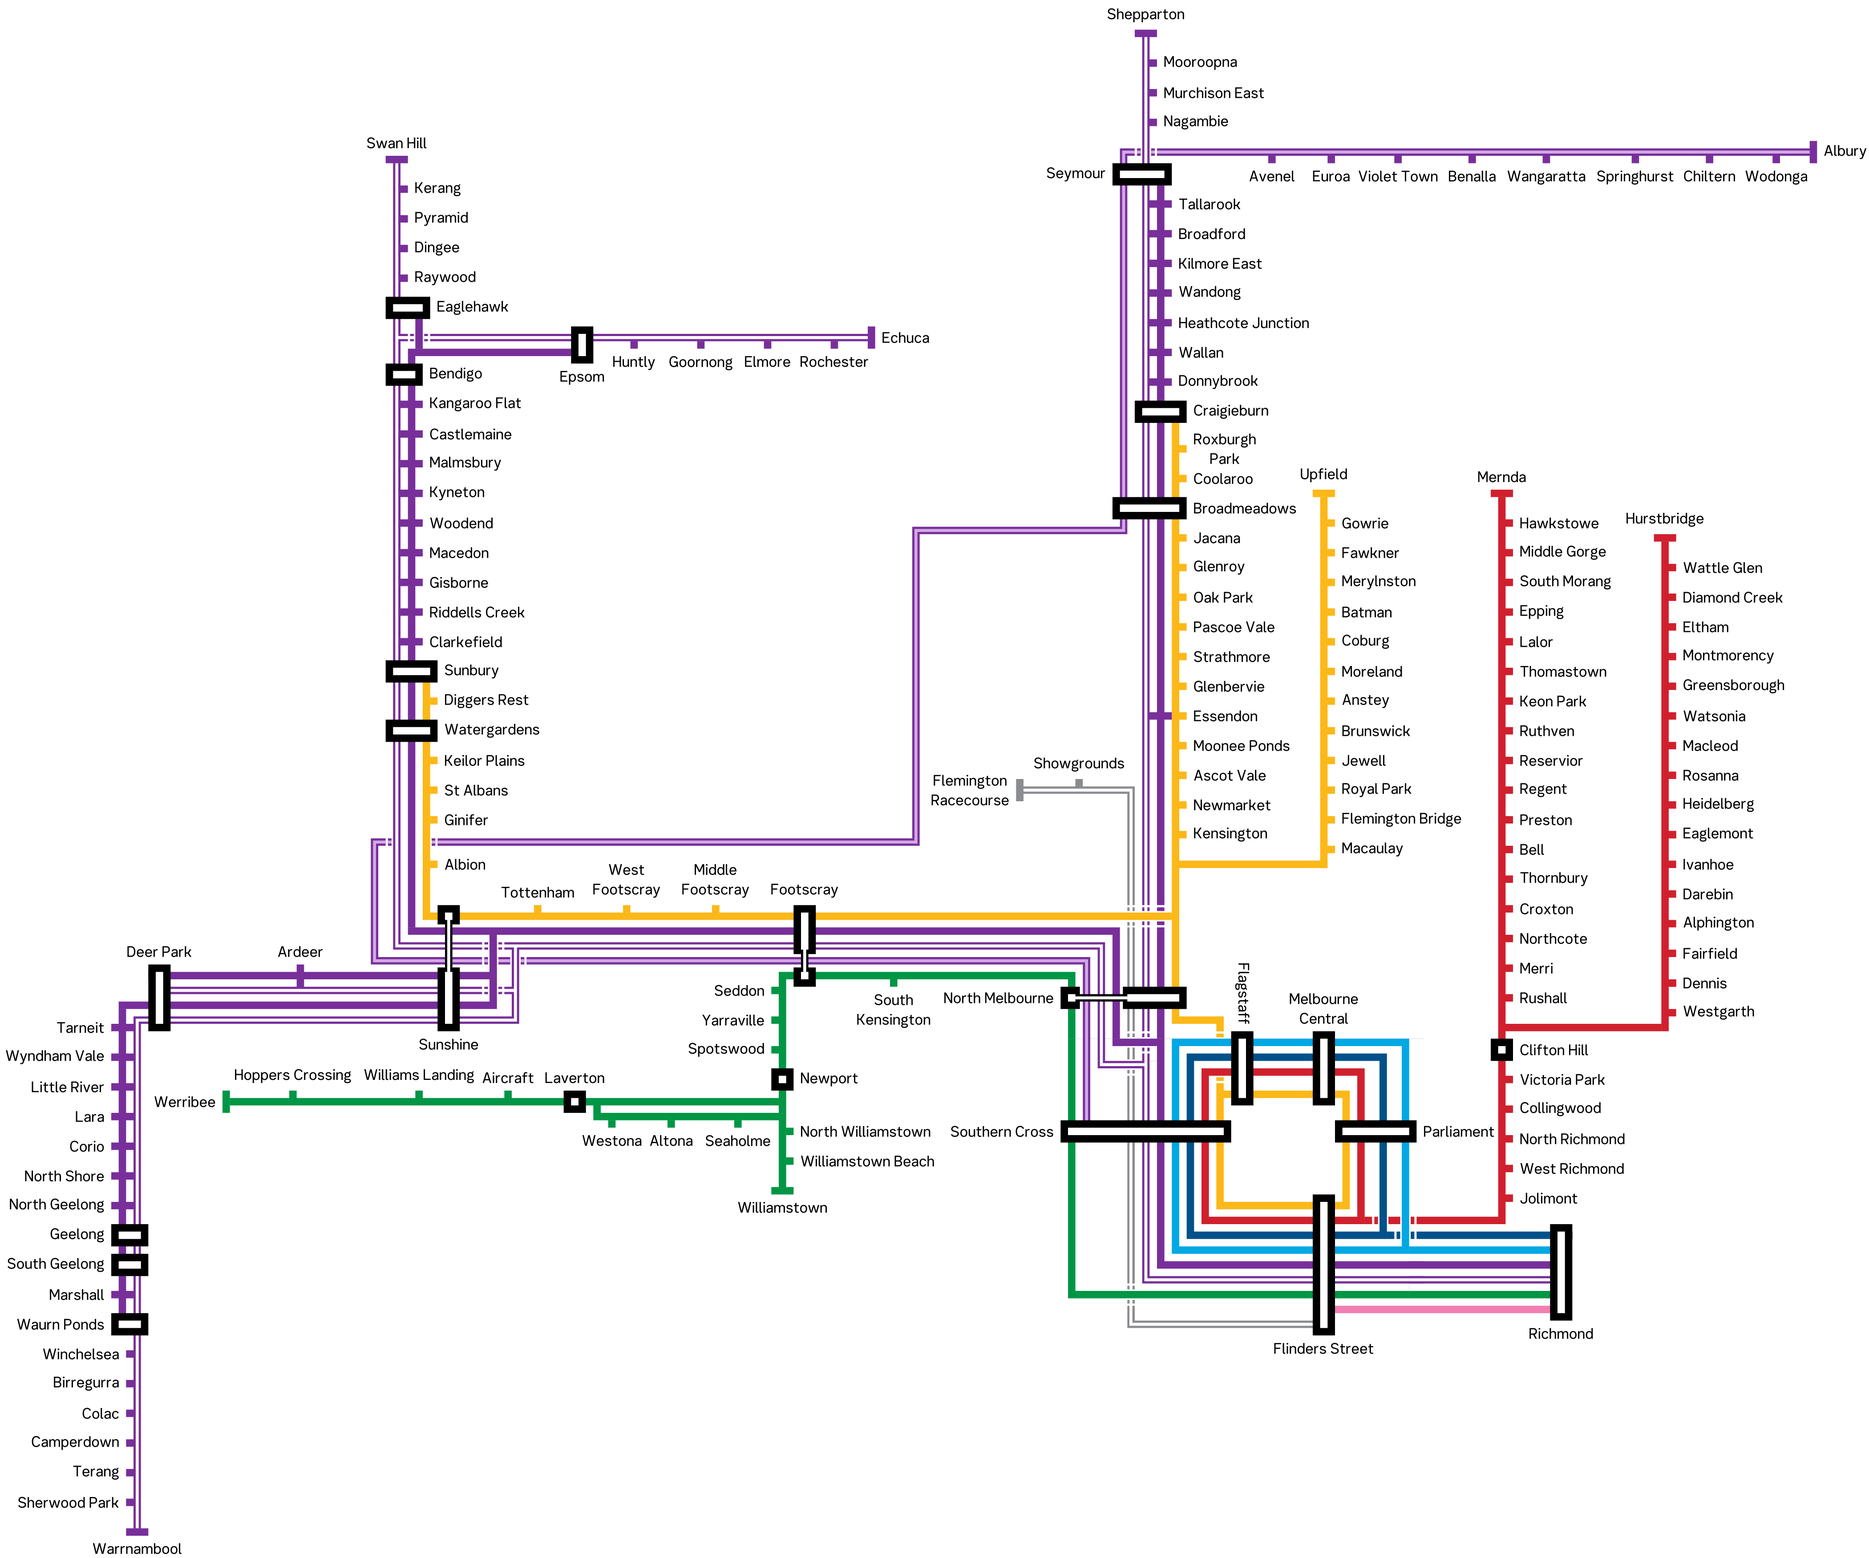
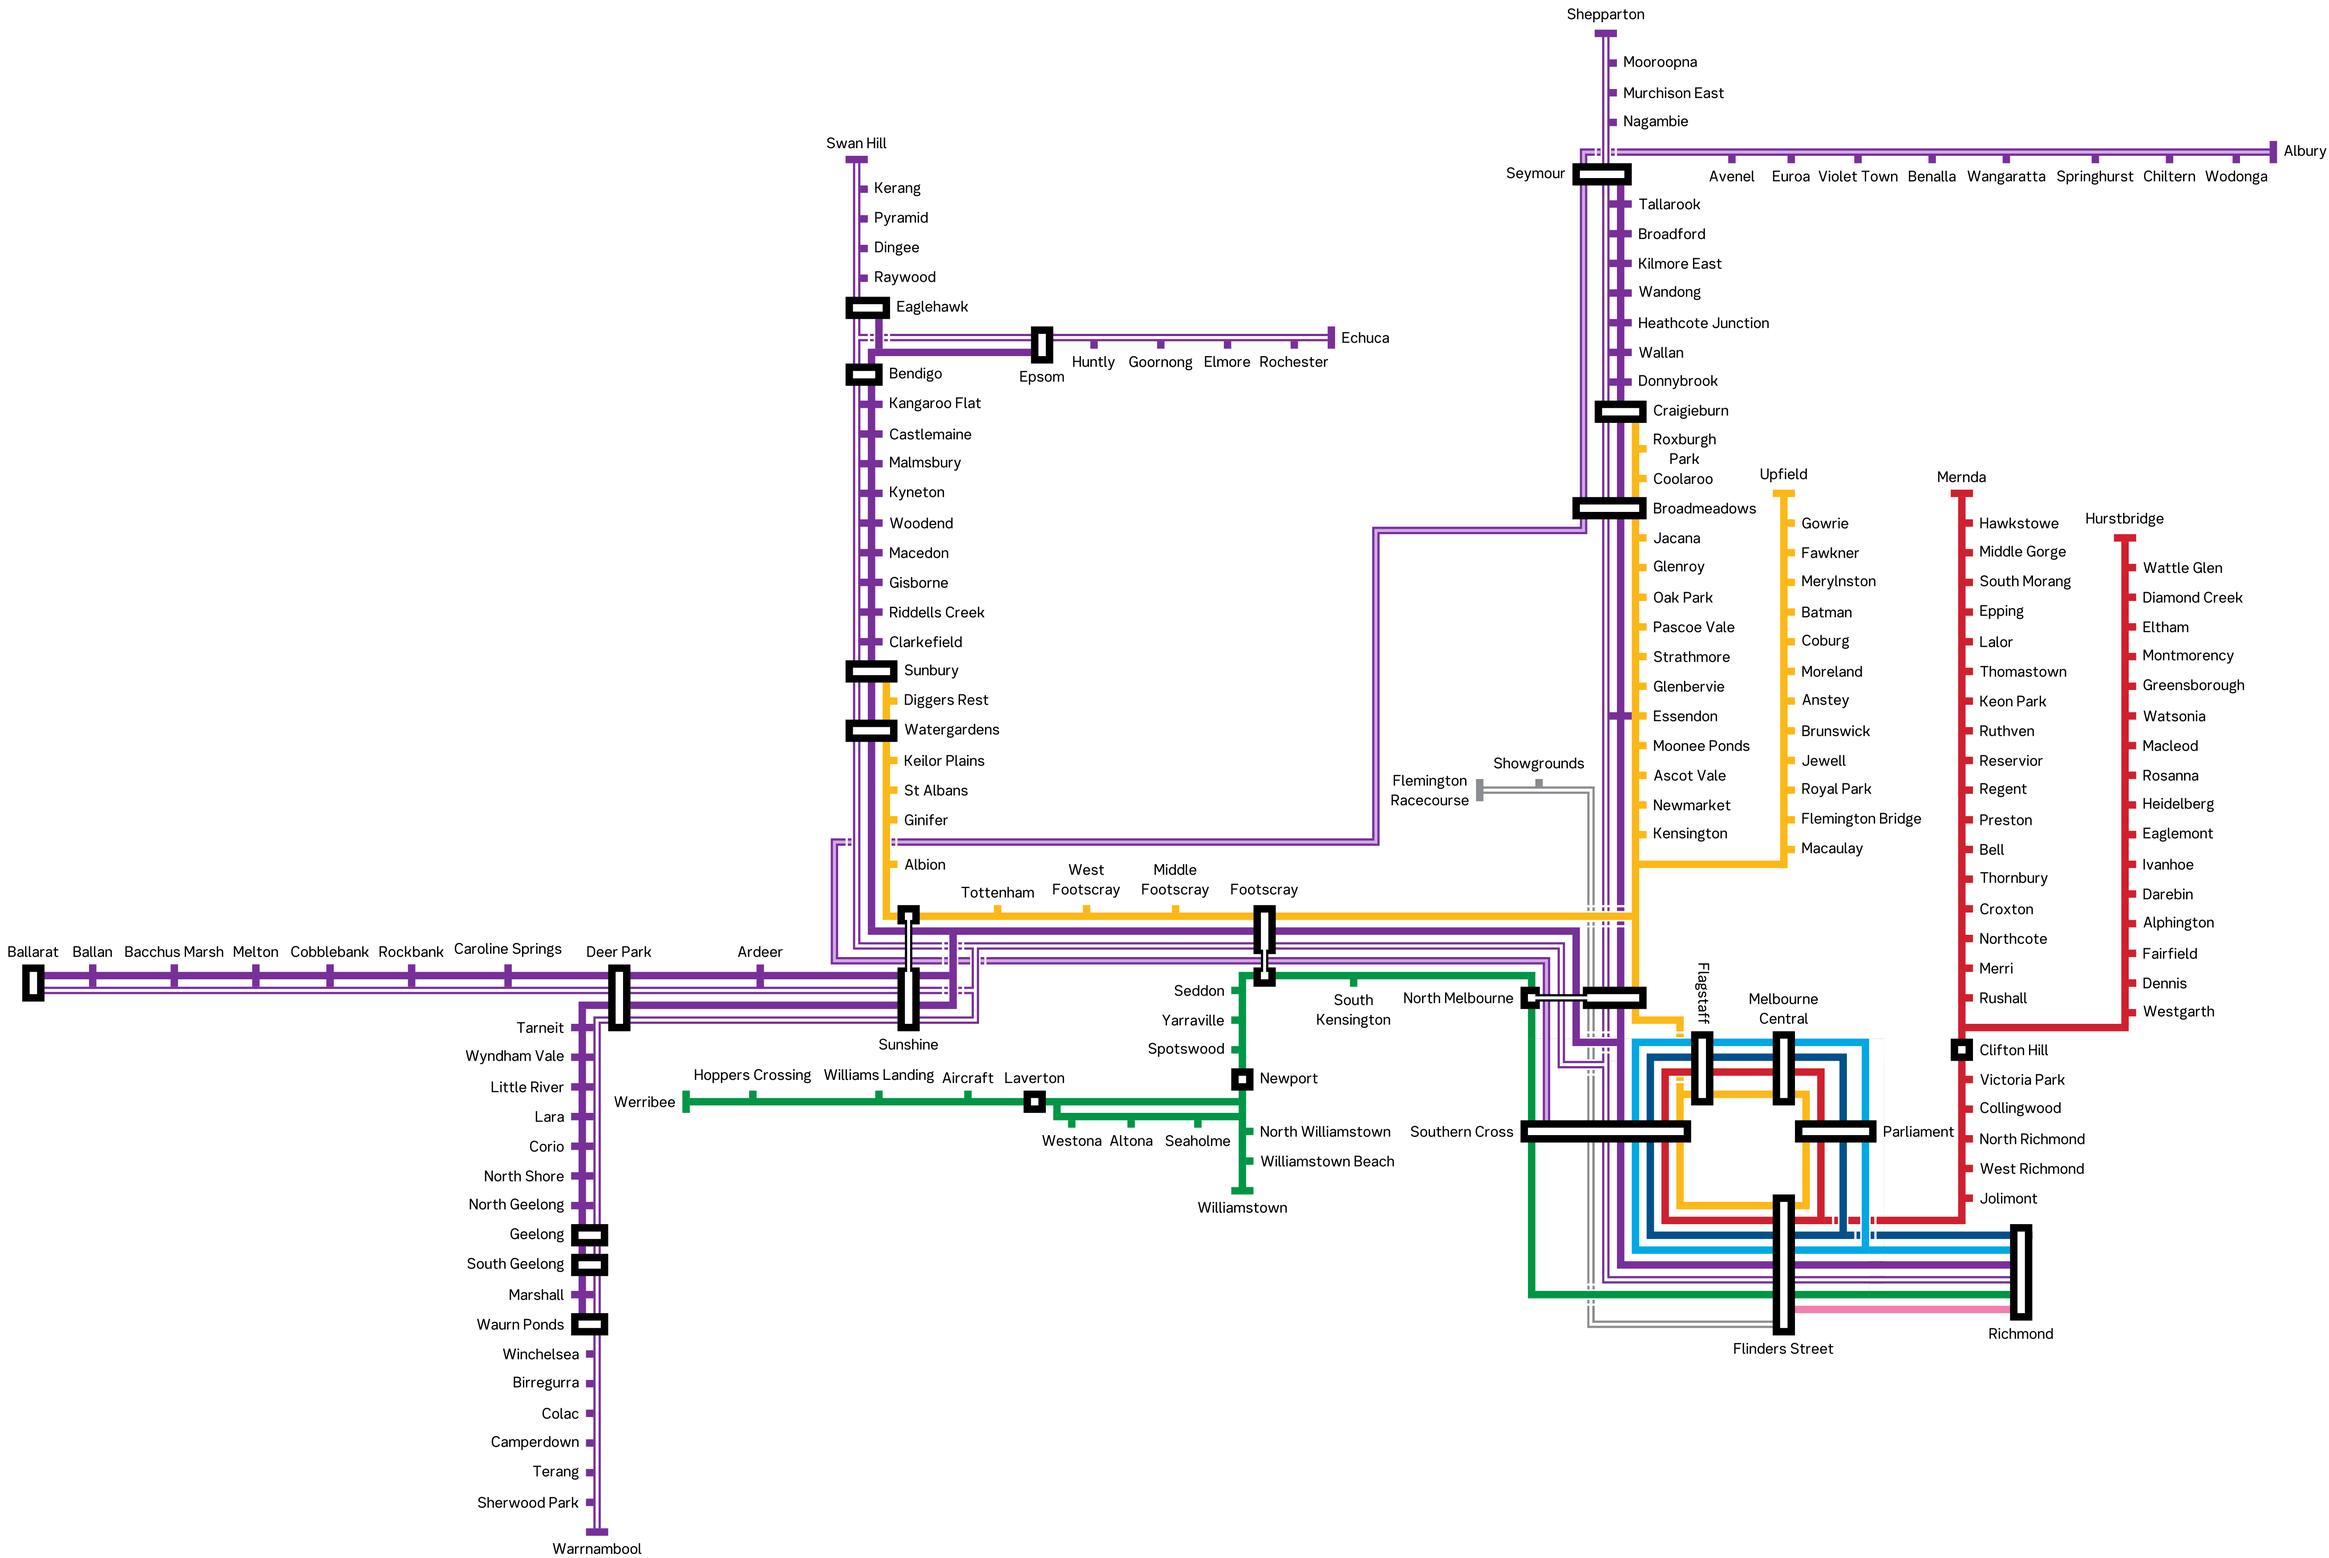
ballarat line

Changed region(s): [[0.0, 0.0, 0.9981, 1.0], [0.3431, 0.0934, 0.3743, 0.1246]]

diff --git a/utils/trainlogger/map/mapimage.py b/utils/trainlogger/map/mapimage.py
@@ -3,7 +3,7 @@ import tkinter as tk
 from PIL import ImageTk
 from matplotlib.pylab import f
 
-x_offset = 5950
+x_offset = 9050
 y_offset = 6300
 dpi = 32/96
 
@@ -129,6 +129,13 @@ class MapImageHandler:
             "Terang": (-5500 + x_offset, 3550 + y_offset, -5150 + x_offset, 3700 + y_offset),
             "Sherwood Park": (-5850 + x_offset, 3750 + y_offset, -5150 + x_offset, 3900 + y_offset),
             "Warrnambool": (-5400 + x_offset, 4050 + y_offset, -4700 + x_offset, 4200 + y_offset),
+            "Caronline Springs": (-6050 + x_offset, 0 + y_offset, -5250 + x_offset, 150 + y_offset),
+            "Rockbank": (-6550 + x_offset, 50 + y_offset, -6050 + x_offset, 150 + y_offset),
+            "Cobblebank": (-7150 + x_offset, 50 + y_offset, -6500 + x_offset, 150 + y_offset),
+            "Melton": (-7500 + x_offset, 50 + y_offset, -7150 + x_offset, 200 + y_offset),
+            "Bacchus Marsh": (-8250 + x_offset, 50 + y_offset, -7550 + x_offset, 200 + y_offset),
+            "Ballan": (-8600 + x_offset, 50 + y_offset, -8300 + x_offset, 150 + y_offset),
+            "Ballarat": (-9050 + x_offset, 50 + y_offset, -8650 + x_offset, 200 + y_offset),
             "Macaulay": (3074 + x_offset, -648 + y_offset, 3518 + x_offset, -512 + y_offset),
             "Flemington Bridge": (3050 + x_offset, -850 + y_offset, 3999 + x_offset, -701 + y_offset),
             "Royal Park": (3071 + x_offset, -1035 + y_offset, 3582 + x_offset, -911 + y_offset),
